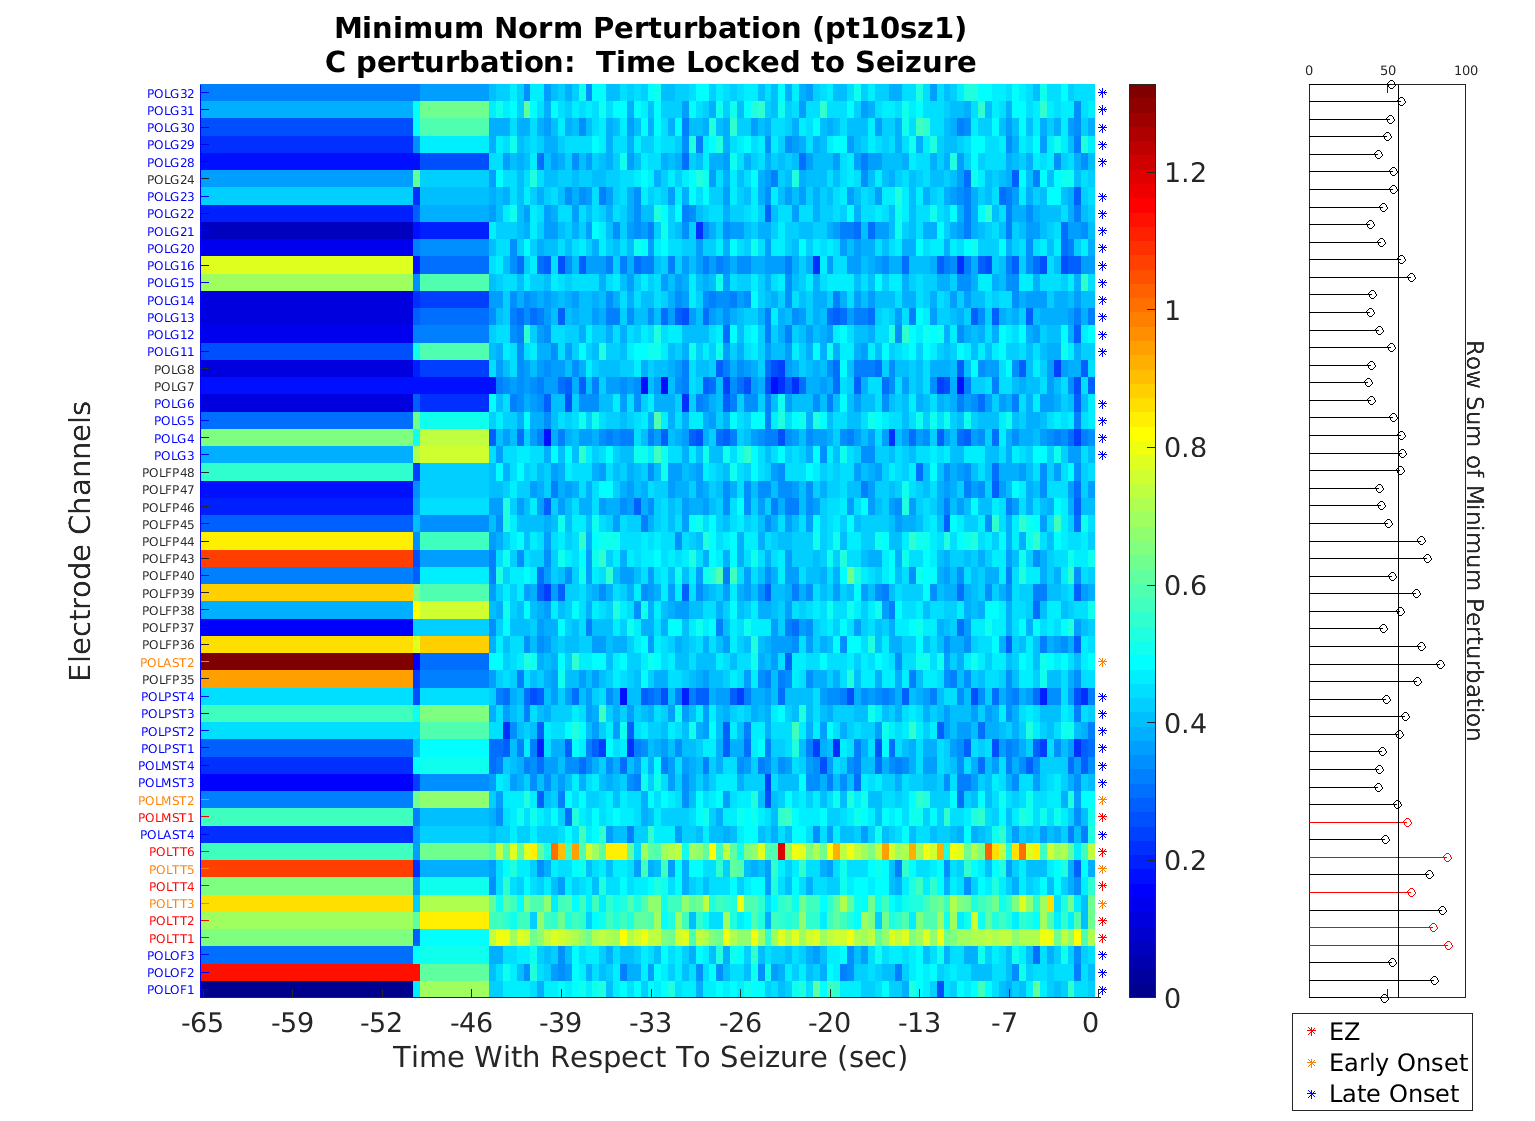
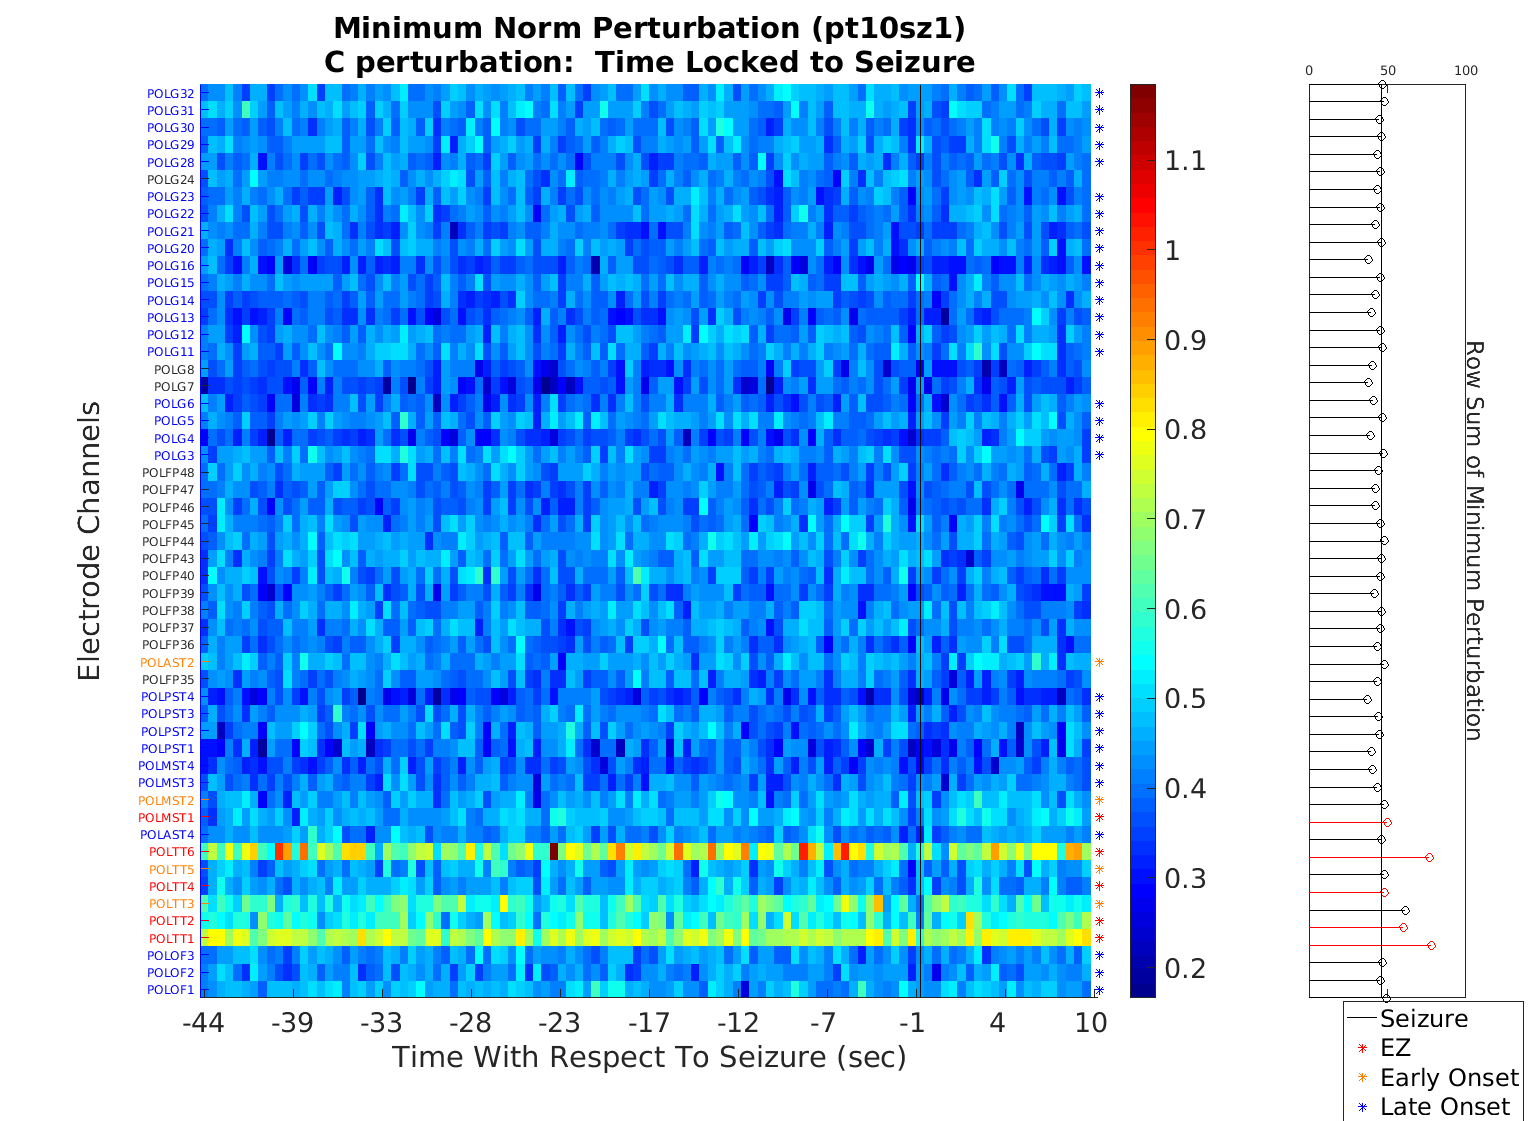
Adding laser ablation figs and pt10 figs and degree of agreement figs for pt10.

diff --git a/fragility_dataanalysis/fragility_library/degreeofagreement/DOA_script_AL.m b/fragility_dataanalysis/fragility_library/degreeofagreement/DOA_script_AL.m
@@ -34,8 +34,8 @@ patients = {...,
 %     'pt2sz1', 'pt2sz3', 'pt2sz4', ...
 %     'pt3sz2', 'pt3sz4', ...
 %     'pt6sz3', 'pt6sz4', 'pt6sz5',...
-    'pt8sz1' 'pt8sz2' 'pt8sz3',...
-%     'pt10sz1' 'pt10sz2' 'pt10sz3', ...
+%     'pt8sz1' 'pt8sz2' 'pt8sz3',...
+    'pt10sz1' 'pt10sz2' 'pt10sz3', ...
 %     'pt11sz1' 'pt11sz2' 'pt11sz3' 'pt11sz4', ...
 %     'pt14sz1' 'pt14sz2' 'pt14sz3', ...
 %      'pt15sz1' 'pt15sz2' 'pt15sz3' 'pt15sz4',...
@@ -75,7 +75,7 @@ frequency_sampling = 1000;
 radius = 1.5;
 
 TYPE_CONNECTIVITY = 'leastsquares';
-perturbationType = 'C';
+perturbationType = 'R';
 TEST_DESCRIP = 'after_first_removal';
 TEST_DESCRIP = [];
 
@@ -211,13 +211,13 @@ for iPat=1:length(patients)
     if seeg
         seizureMarkStart = (seizureStart-1) / winSize;
     end
-%     minPerturb_time_chan = minPerturb_time_chan(:, 1:seizureMarkStart);
-%     fragility_rankings = fragility_rankings(:, 1:seizureMarkStart);
-%     timePoints = timePoints(1:seizureMarkStart,:);  
-
-    minPerturb_time_chan = minPerturb_time_chan(:, 1:seizureMarkStart+20);
-    fragility_rankings = fragility_rankings(:, 1:seizureMarkStart+20);
-    timePoints = timePoints(1:seizureMarkStart+20,:);  
+    minPerturb_time_chan = minPerturb_time_chan(:, 1:seizureMarkStart);
+    fragility_rankings = fragility_rankings(:, 1:seizureMarkStart);
+    timePoints = timePoints(1:seizureMarkStart,:);  
+% 
+%     minPerturb_time_chan = minPerturb_time_chan(:, 1:seizureMarkStart+20);
+%     fragility_rankings = fragility_rankings(:, 1:seizureMarkStart+20);
+%     timePoints = timePoints(1:seizureMarkStart+20,:);  
     
     ALL = included_labels;
     CEZ = ezone_labels;
@@ -318,19 +318,20 @@ for iPat=1:length(patients)
     axis tight
     axes = gca;
     axes.FontSize = FONTSIZE;
+    ylim([-0.2 1]);
 end
 xlim([min(thresholds), max(thresholds)]);
-ylim([0 1]);
-h = suptitle('Patient 8 | -44 to Seizure + 10');
+
+h = suptitle('Patient 8 | Start to Seizure');
 set(h, 'FontSize', FONTSIZE);
 leg = legend(metrics)
 currfig = gcf;
 currfig.PaperPosition = [-3.7448   -0.3385   15.9896   11.6771];
 currfig.Position = [1986           1        1535        1121];
 
-figDir = fullfile(rootDir, 'figures/degree of agreement/');
+figDir = fullfile(rootDir, 'figures/degree of agreement/', perturbationType);
 if ~exist(figDir, 'dir')
     mkdir(figDir);
 end
-toSaveFigFile = fullfile(figDir, strcat(patient_id, '_allmetrics_44to10'));
+toSaveFigFile = fullfile(figDir, strcat(patient_id, '_allmetrics_startto0'));
 print(toSaveFigFile, '-dpng', '-r0')

diff --git a/fragility_dataanalysis/runPlotsAndDOA.m b/fragility_dataanalysis/runPlotsAndDOA.m
@@ -12,8 +12,9 @@ patients = {,...,
 %     'pt3sz2' 'pt3sz4', ...
 %     'pt6sz3', 'pt6sz4', 'pt6sz5',...
 %     'pt7sz19', 'pt7sz21', 'pt7sz22',...
-    'pt8sz1' 'pt8sz2' 'pt8sz3',...
-%     'pt10sz1' 'pt10sz2' 'pt10sz3', ...
+%     'pt8sz1' 'pt8sz2' 'pt8sz3',...
+    'pt10sz1',...
+% 'pt10sz2' 'pt10sz3', ...
 %     'pt11sz1' 'pt11sz2' 'pt11sz3' 'pt11sz4', ...
 %     'pt12sz1', 'pt12sz2', ...
 %     'pt13sz1', 'pt13sz2', 'pt13sz3', 'pt13sz5',...
@@ -45,6 +46,8 @@ patients = {,...,
 %    'EZT005seiz001', 'EZT005seiz002',...
 %     'EZT007seiz001', 'EZT007seiz002', ...
 %    	'EZT070seiz001', 'EZT070seiz002', ...
+%     'Pat2sz1p', 'Pat2sz2p', 'Pat2sz3p', ...
+%     'Pat16sz1p', 'Pat16sz2p', 'Pat16sz3p',...
     };
 
 close all;
